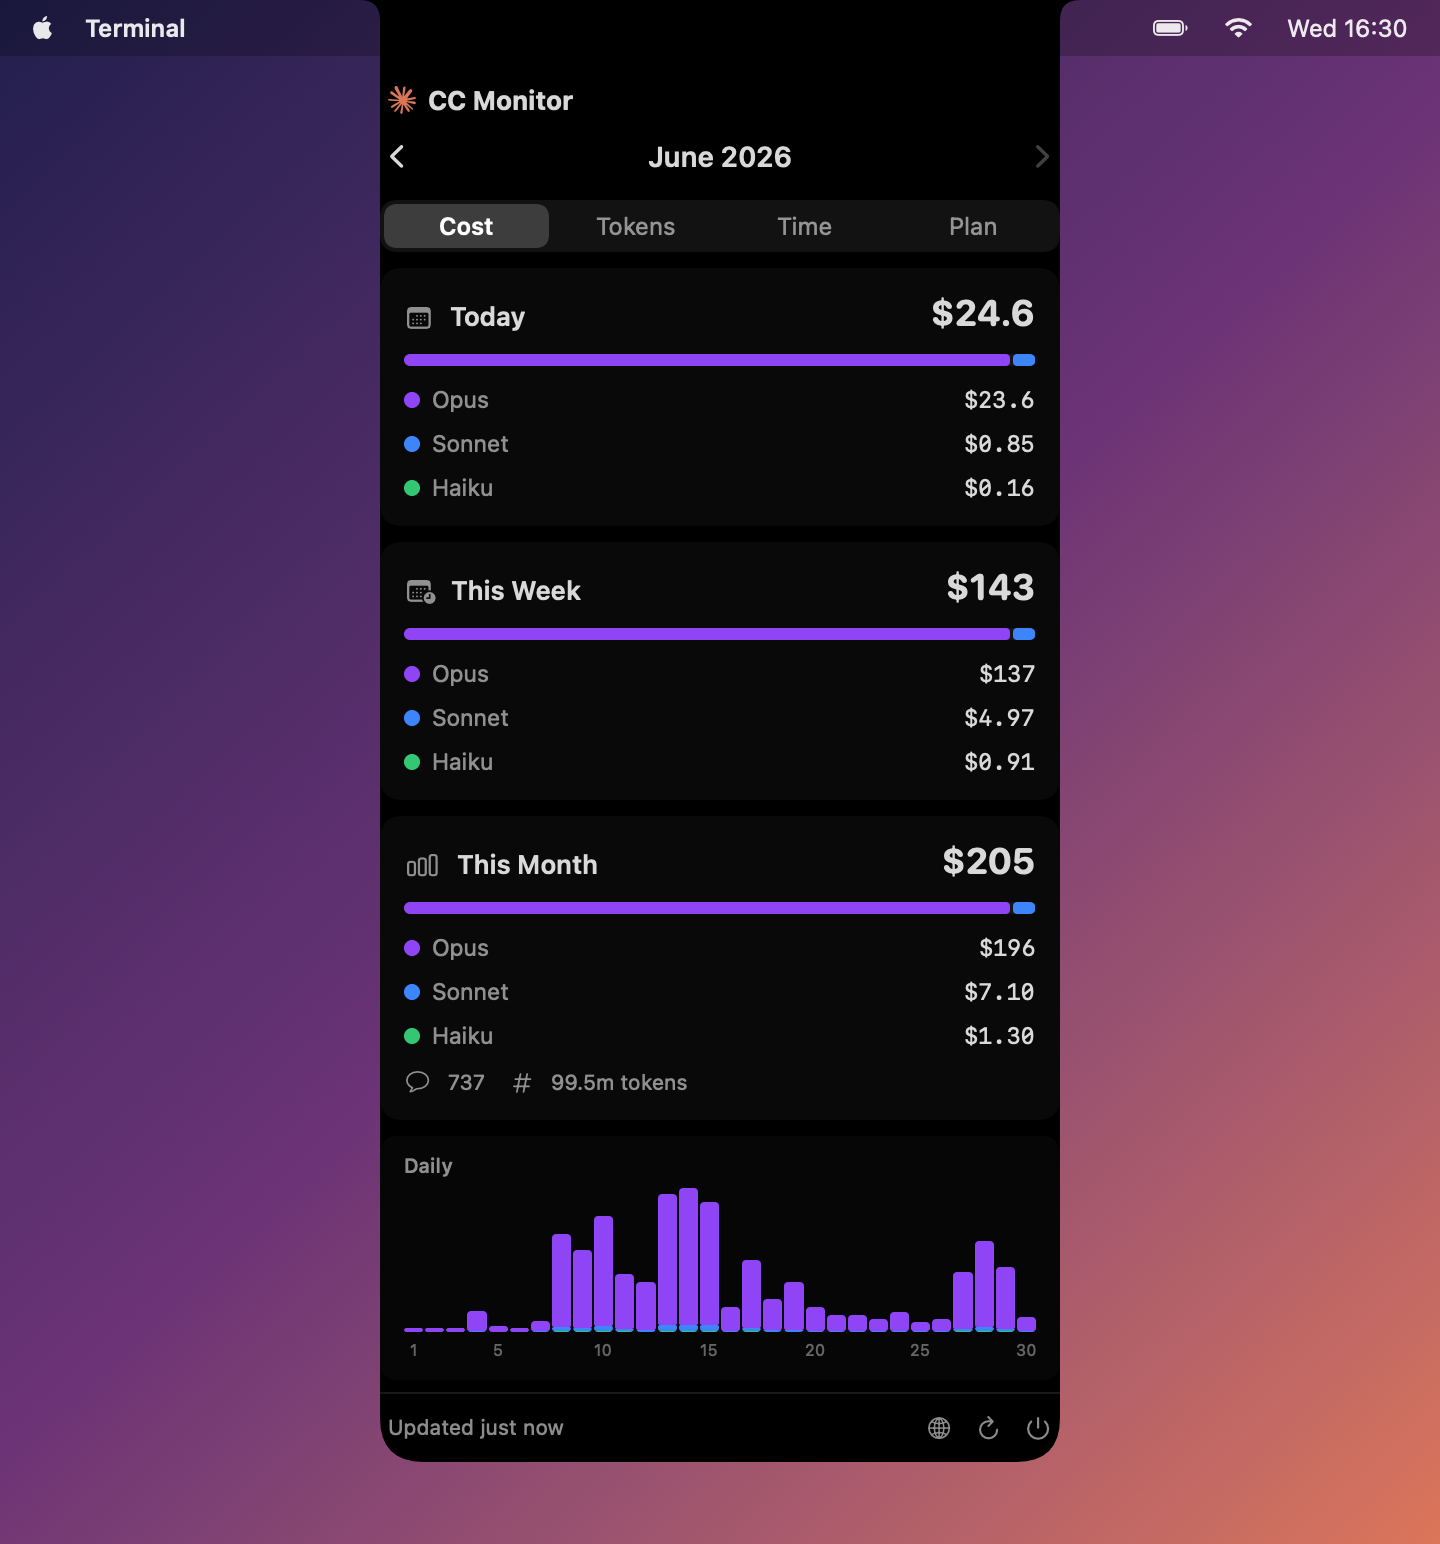
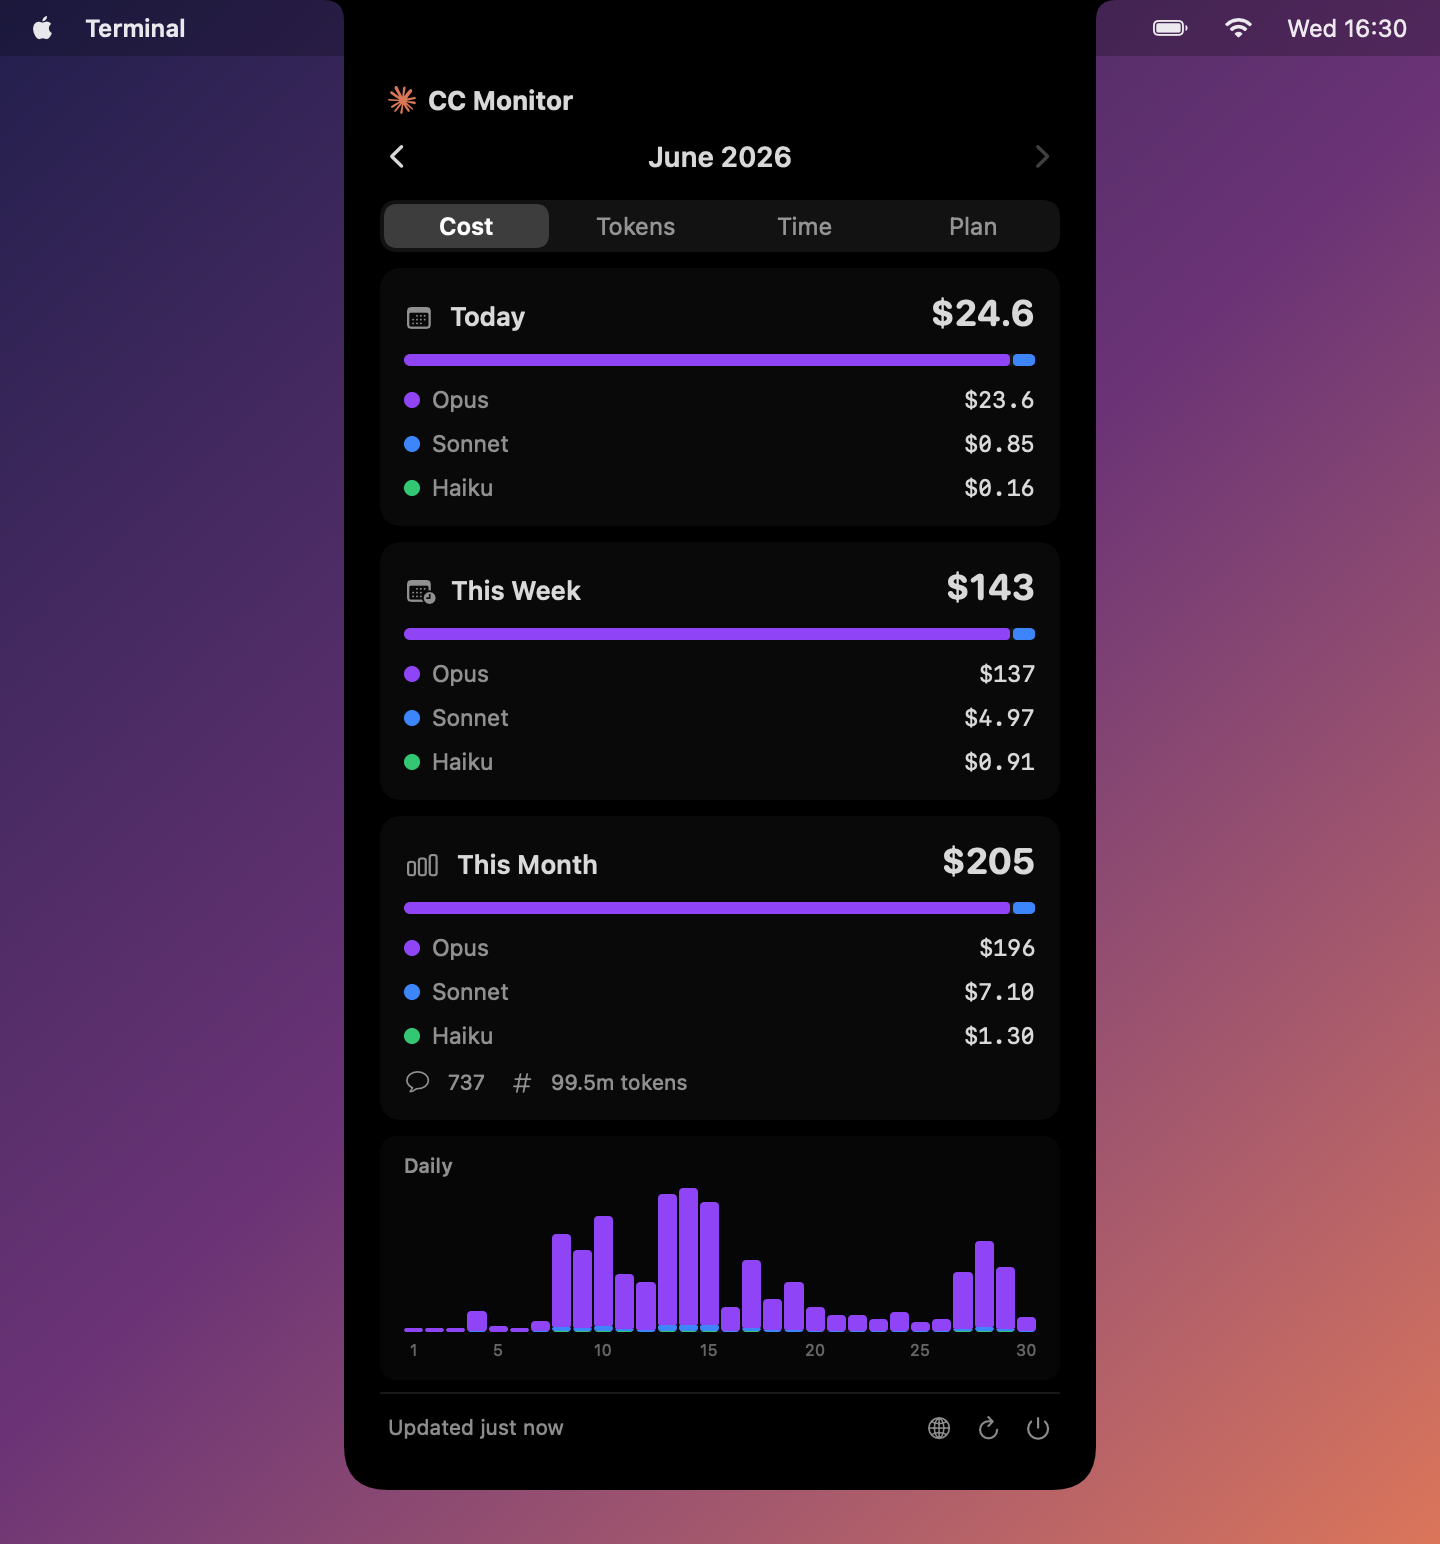
docs: fix notch showcase popover margins
The popover ran edge-to-edge with the black panel. Mirror NotchRootView's inner
margins (hMargin 18, bottom 14) so the content floats inside the notch black with
breathing room, as it does in the app.

Changed region(s): [[0.2188, 0.0, 0.7812, 0.9637]]

diff --git a/docs/render_mockups.swift b/docs/render_mockups.swift
@@ -382,9 +382,12 @@ struct DemoNotch: View {
             menuBar
             // The notch panel: flush with the very top edge, hanging down. Its top band
             // (the camera strip) overlaps the menu bar; the "CC Monitor" header sits
-            // clearly below the bar.
+            // clearly below the bar. Margins mirror NotchRootView so the popover floats
+            // inside the black instead of running edge-to-edge (hMargin 18, bottom 14).
             DemoPopover(store: store, loc: loc, bg: .clear, notch: true)
+                .padding(.horizontal, 18)
                 .padding(.top, menuBarHeight)   // header lands a row below the menu bar
+                .padding(.bottom, 14)
                 .background(Color.black)
                 .clipShape(NotchShape(topCornerRadius: 10, bottomCornerRadius: 22))
                 .environment(\.colorScheme, .dark)
